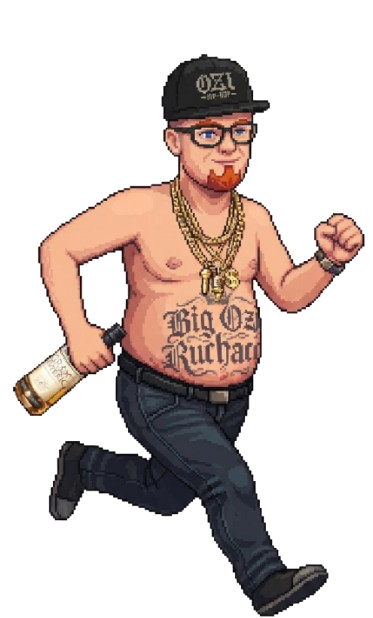
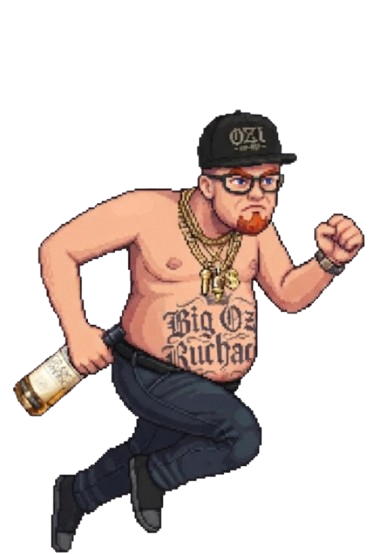
Wika added
Changes made to big_ozi animation

diff --git a/main.py b/main.py
@@ -162,6 +162,15 @@ class Player:
                     (160, 200)
                 ),
 
+                pygame.transform.scale(
+                    pygame.image.load("assets/characters/big_ozi/run_5.png").convert_alpha(),
+                   (160, 200)
+                ),
+
+                pygame.transform.scale(
+                    pygame.image.load("assets/characters/big_ozi/run_6.png").convert_alpha(),
+                    (160, 200)
+                ),
             ]
 
             self.jump_image = pygame.transform.scale(
@@ -170,43 +179,76 @@ class Player:
             )
 
         elif name == "LIL specjal":
-                    self.width = 250
-                    self.height = 200
+                    self.width = 150
+                    self.height = 100
                     self.run_frames = [
         
                         pygame.transform.scale(
                             pygame.image.load("assets/characters/lil_specjal/run_1.png").convert_alpha(),
-                            (250, 200)
+                            (150, 100)
                         ),
         
                         pygame.transform.scale(
                             pygame.image.load("assets/characters/lil_specjal/run_2.png").convert_alpha(),
-                            (250, 200)
+                            (150, 100)
                         ),
         
                         pygame.transform.scale(
                             pygame.image.load("assets/characters/lil_specjal/run_3.png").convert_alpha(),
-                            (250, 200)
+                            (150, 100)
                         ),
         
                         pygame.transform.scale(
                             pygame.image.load("assets/characters/lil_specjal/run_4.png").convert_alpha(),
-                            (250, 200)
+                            (150, 100)
                         ),
 
                         pygame.transform.scale(
                             pygame.image.load("assets/characters/lil_specjal/run_5.png").convert_alpha(),
-                            (250, 200)
+                            (150, 100)
                         ),
         
                     ]
         
                     self.jump_image = pygame.transform.scale(
                         pygame.image.load("assets/characters/lil_specjal/jump.png").convert_alpha(),
-                        (250, 200)
+                        (150, 100)
                     )
 
+        elif name == "Wika the psycho":
+                    self.width = 120
+                    self.height = 160
+                    self.run_frames = [
         
+
+        
+                        pygame.transform.scale(
+                            pygame.image.load("assets/characters/wika_psycho/klatka_2.png").convert_alpha(),
+                            (120, 160)
+                        ),
+        
+                        pygame.transform.scale(
+                            pygame.image.load("assets/characters/wika_psycho/klatka_3.png").convert_alpha(),
+                            (120, 160)
+                        ),
+        
+                        pygame.transform.scale(
+                            pygame.image.load("assets/characters/wika_psycho/klatka_4.png").convert_alpha(),
+                            (120, 160)
+                        ),
+        
+                        pygame.transform.scale(
+                            pygame.image.load("assets/characters/wika_psycho/klatka_5.png").convert_alpha(),
+                           (120, 160)
+                        ),
+                                                                                                                                                                                         
+                    ]
+        
+                    self.jump_image = pygame.transform.scale(
+                        pygame.image.load("assets/characters/wika_psycho/jump.png").convert_alpha(),
+                        (125, 165)
+                    )
+                
         else:
 
             self.run_frames = []
